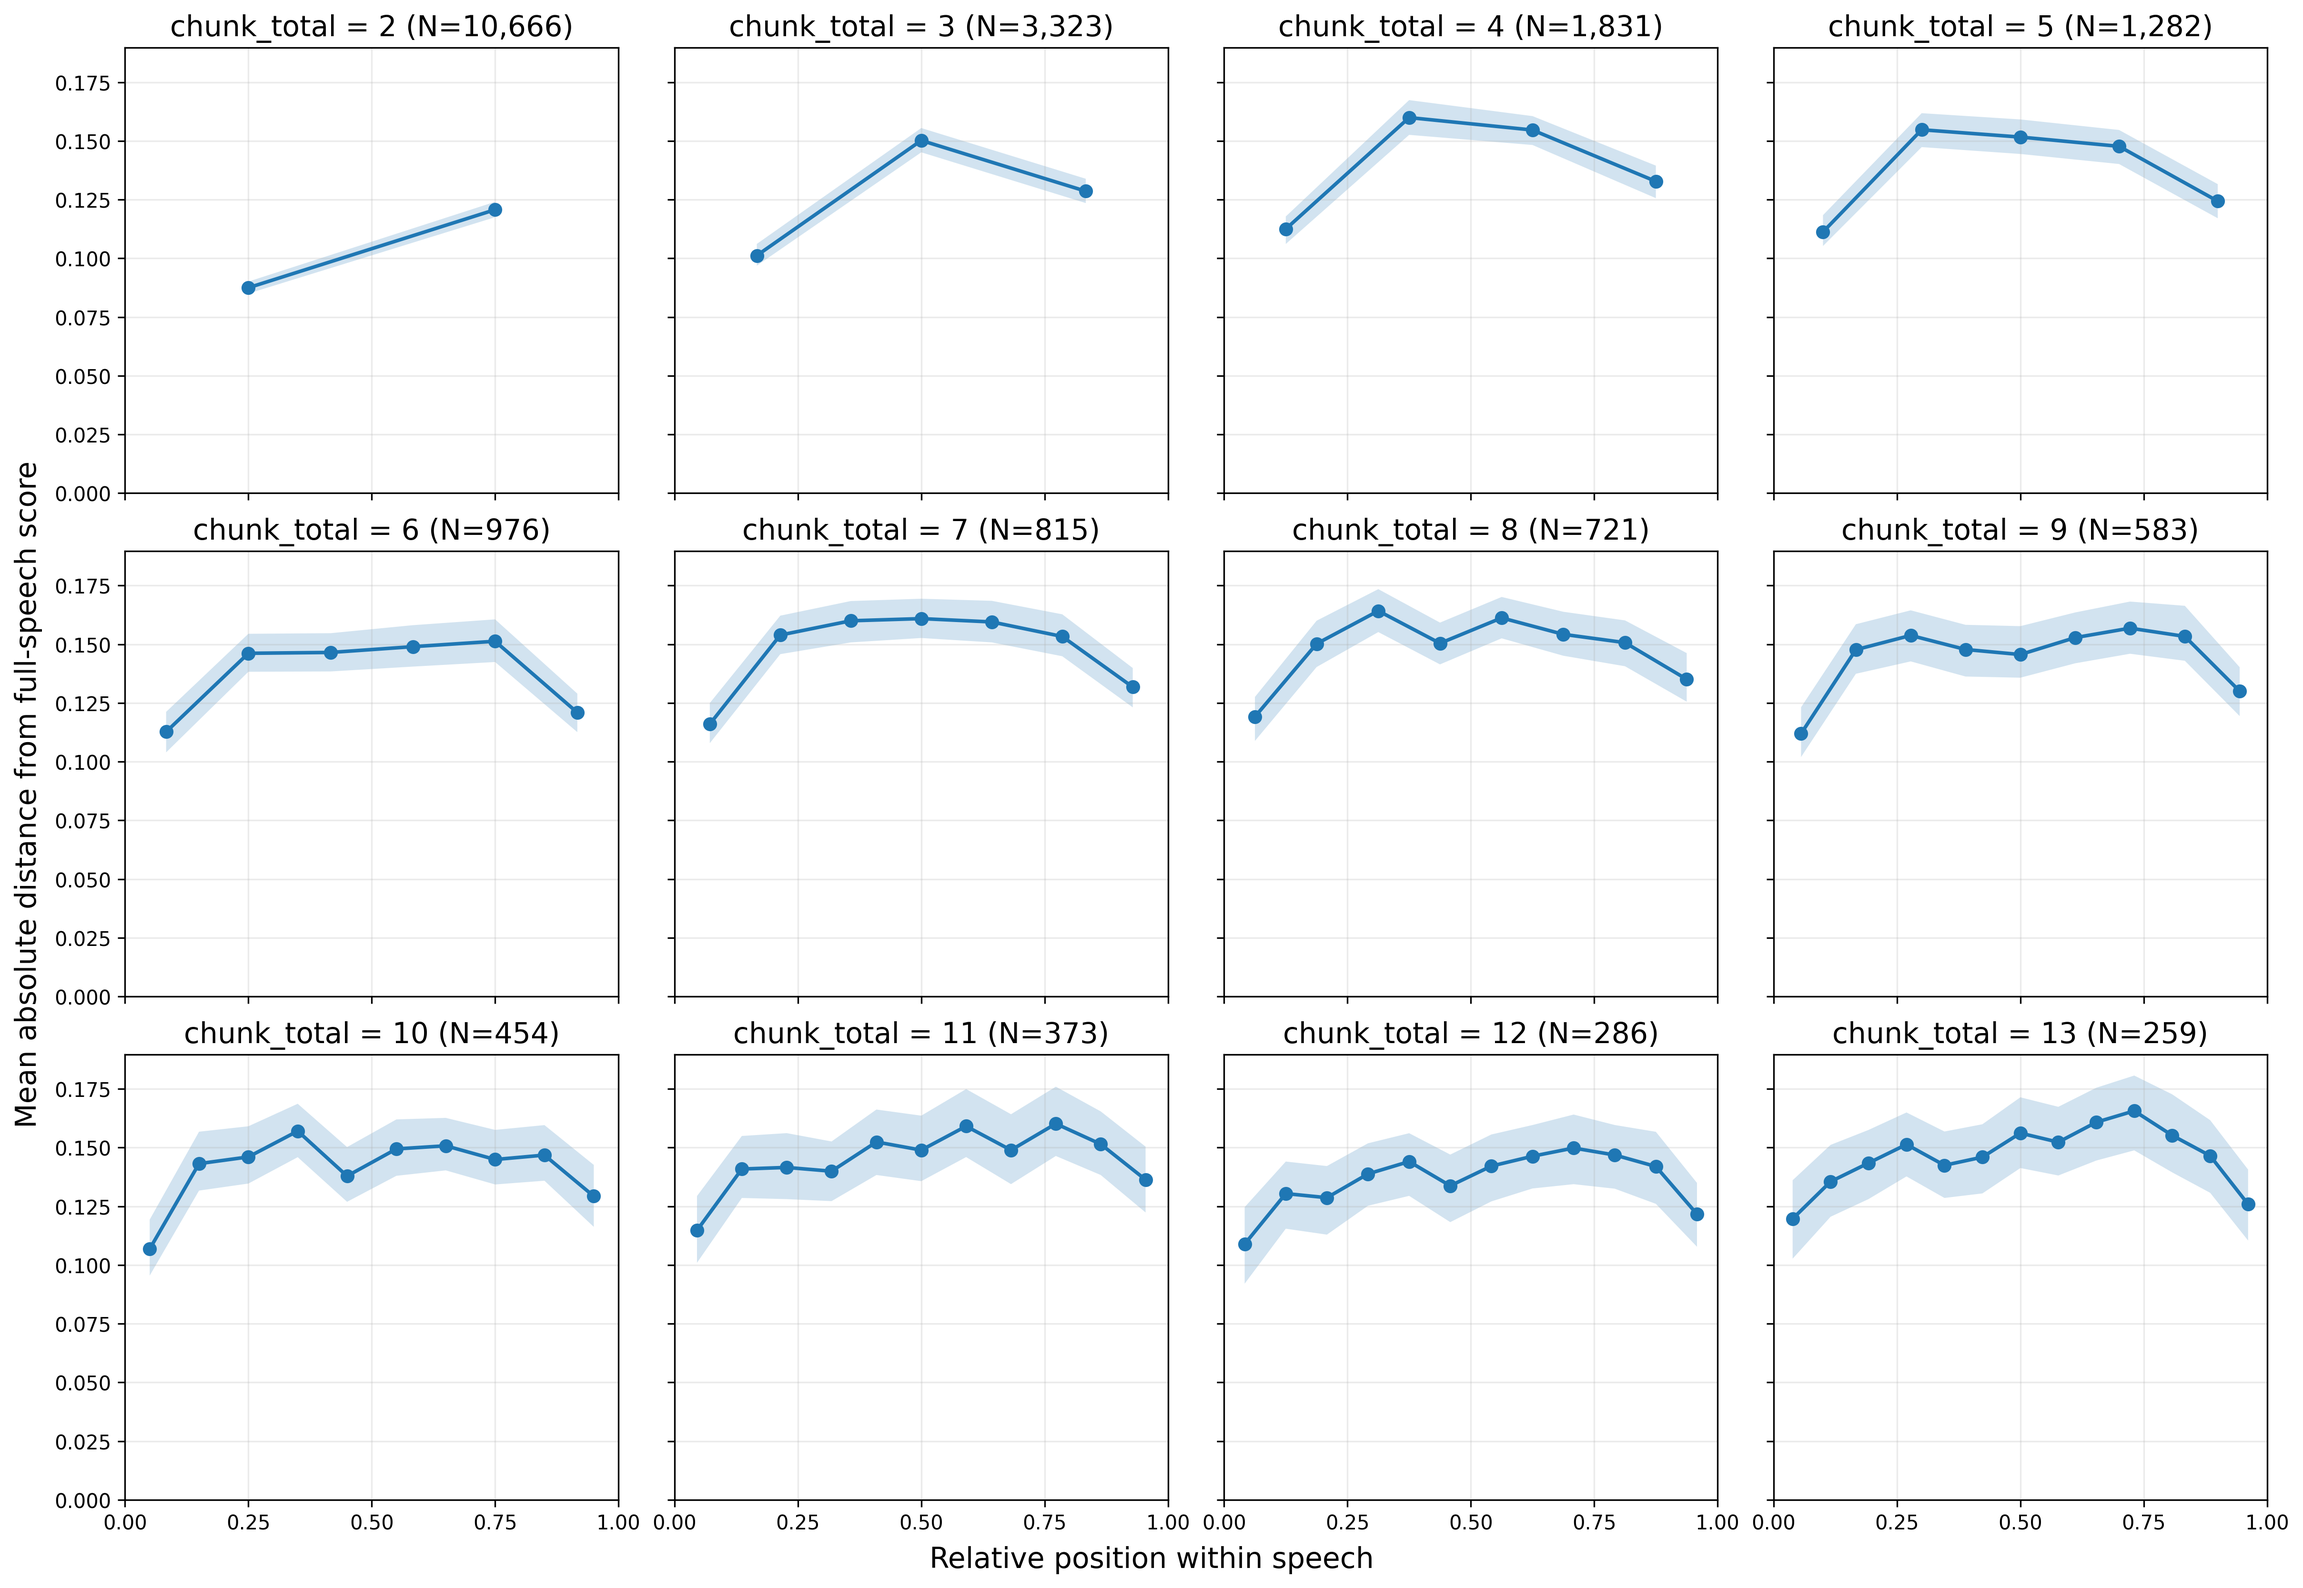
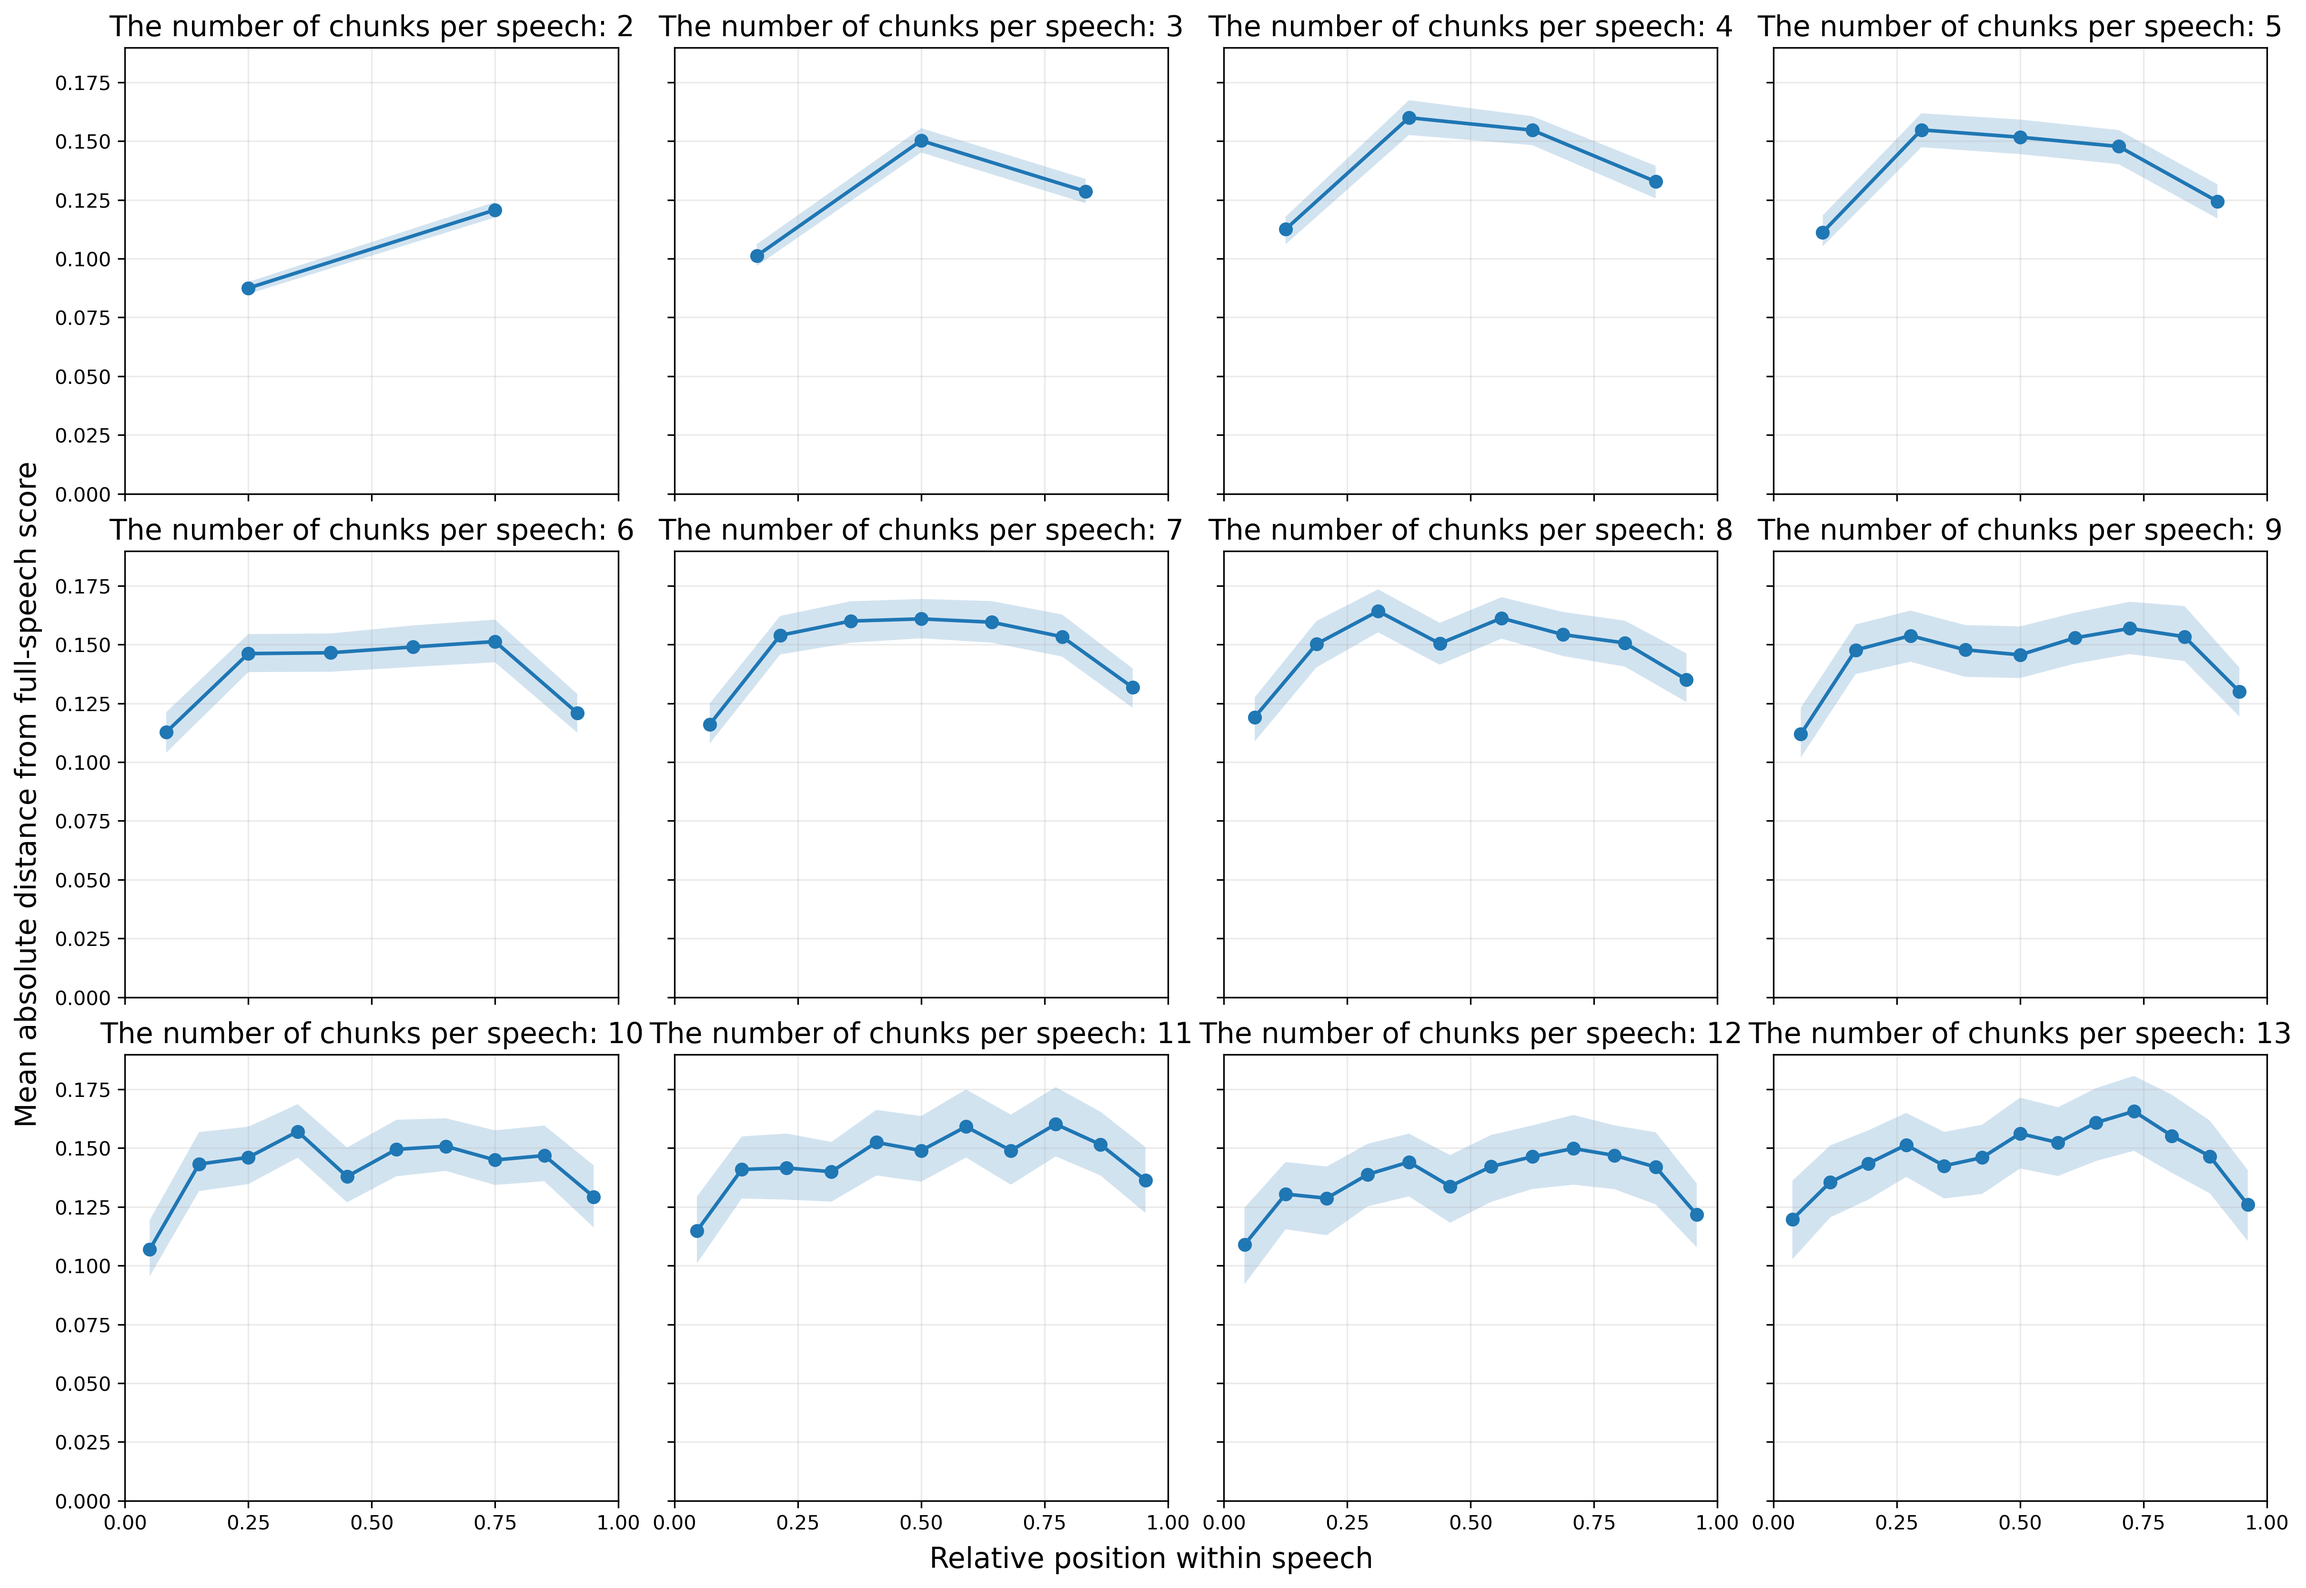
final

diff --git a/src/pic_position.py b/src/pic_position.py
@@ -211,7 +211,7 @@ def plot_score_figure(summary: pd.DataFrame) -> None:
             alpha=0.2,
         )
         n_speeches = int(subset["n_speeches"].max())
-        axis.set_title(f"chunk_total = {chunk_total} (N={n_speeches:,})")
+        axis.set_title(f"The number of chunks per speech: {chunk_total}")
         axis.set_xlim(0, 1)
         axis.set_ylim(0, y_max)
         axis.set_xticks([0, 0.25, 0.5, 0.75, 1.0])
@@ -249,7 +249,7 @@ def plot_category_figure(summary: pd.DataFrame) -> None:
             alpha=0.2,
         )
         n_speeches = int(subset["n_speeches"].max())
-        axis.set_title(f"chunk_total = {chunk_total} (N={n_speeches:,})")
+        axis.set_title(f"The number of chunks per speech: {chunk_total}")
         axis.set_xlim(0, 1)
         axis.set_ylim(0, 1)
         axis.set_xticks([0, 0.25, 0.5, 0.75, 1.0])

diff --git a/src/run_all.py b/src/run_all.py
@@ -22,6 +22,7 @@ SCRIPTS = [
     ROOT / "src" / "pic_main.py",
     ROOT / "src" / "pic_classification.py",
     ROOT / "src" / "pic_LLM.py",
+    ROOT / "src" / "pic_position.py",
     ROOT / "src" / "speech_descriptive.py"
 ]
 
